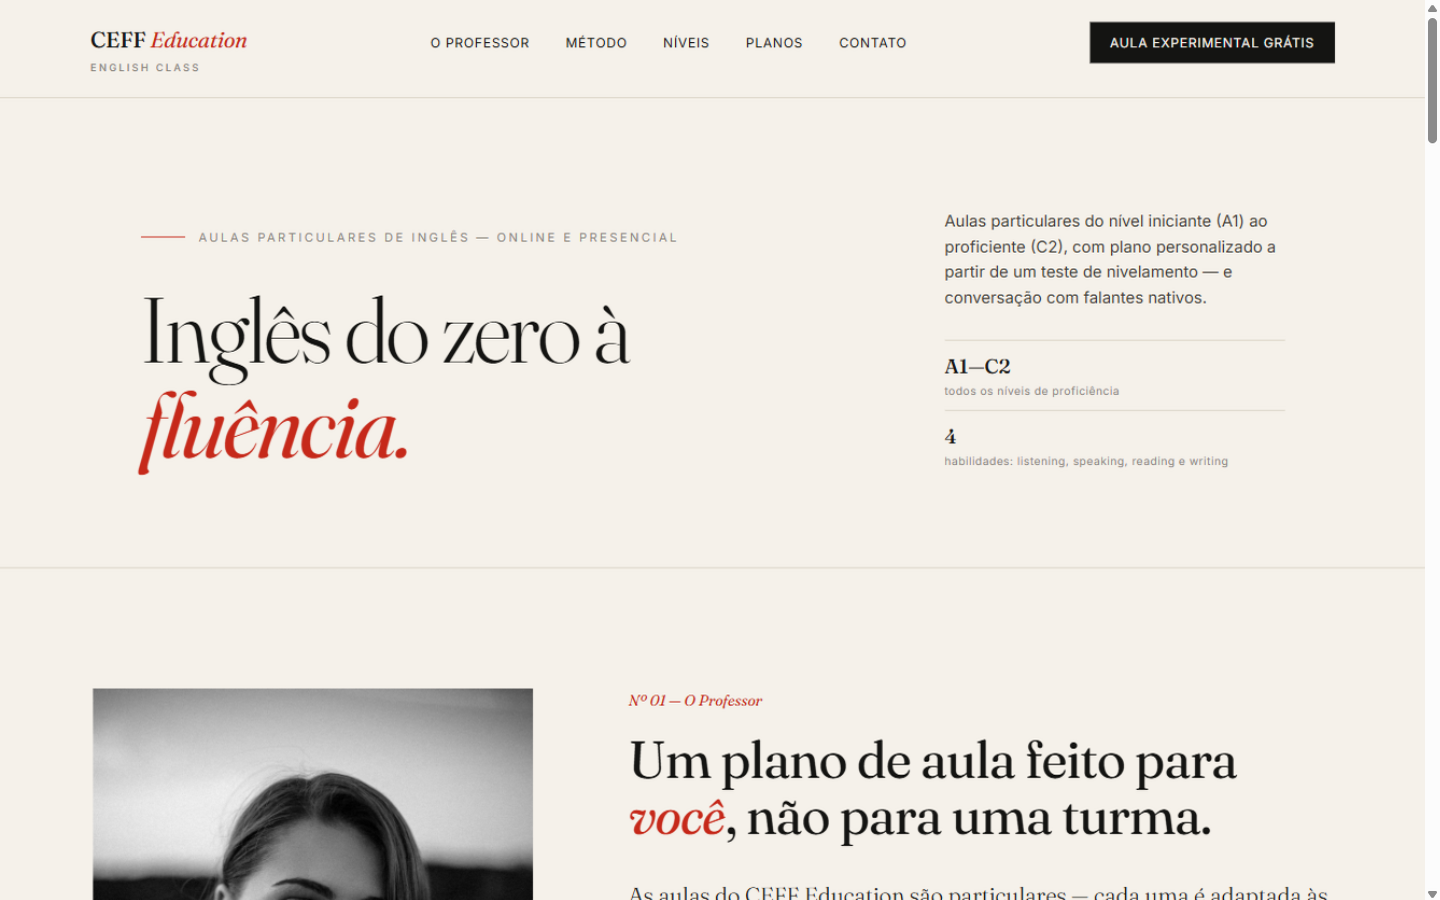
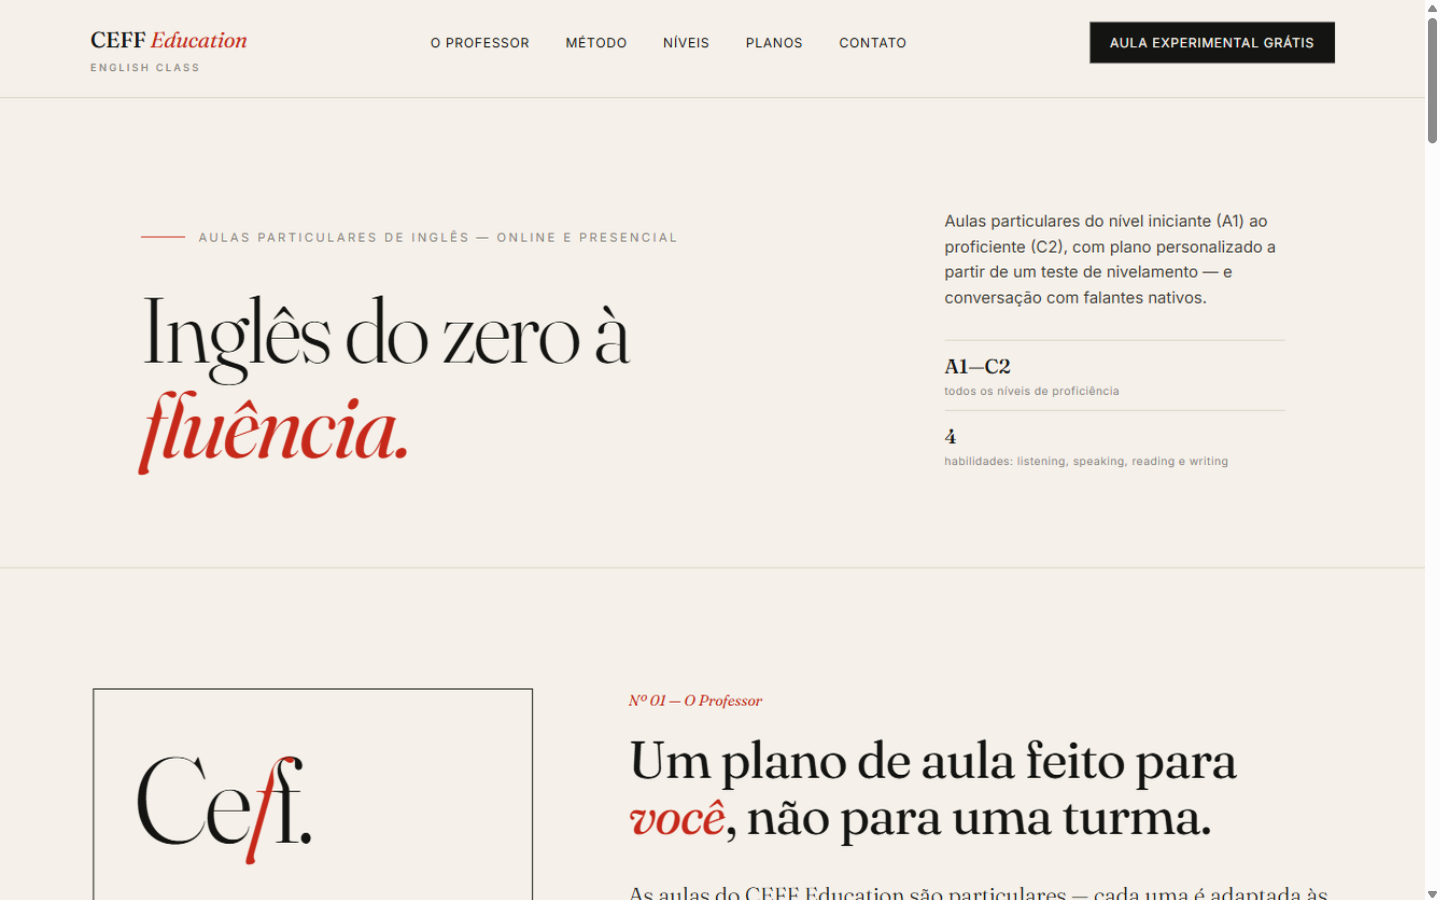
Remove all photos per teacher's request; typographic compositions instead
- concept-1: bordered serif monogram panel with method quote
- concept-2: bold A1->C2 outline block + cobalt statement panel
- concept-3: CEFR levels panel in hero
- update screenshots and README

Changed region(s): [[0.0625, 0.7467, 0.375, 1.0]]

diff --git a/concepts/concept-2-neo-brutalist.html b/concepts/concept-2-neo-brutalist.html
@@ -95,8 +95,15 @@
   }
   .hero-sub .arrow{font-family:'Archivo Black';font-size:26px;color:var(--cobalt);line-height:1;}
   .hero-side{display:flex;flex-direction:column;}
-  .hero-photo{flex:1;border-bottom:var(--border);position:relative;min-height:300px;}
-  .hero-photo img{width:100%;height:100%;object-fit:cover;display:block;filter:contrast(1.1) saturate(.85);}
+  .hero-photo{
+    flex:1;border-bottom:var(--border);position:relative;min-height:300px;
+    background:var(--butter);display:flex;align-items:center;justify-content:center;
+  }
+  .hero-photo .big{
+    font-family:'Archivo Black',sans-serif;font-size:110px;line-height:.92;text-transform:uppercase;
+    text-align:center;letter-spacing:-.02em;transform:rotate(-2deg);
+  }
+  .hero-photo .big .out{color:transparent;-webkit-text-stroke:3px var(--ink);display:block;}
   .hero-photo .tag{
     position:absolute;bottom:14px;left:14px;background:var(--paper);border:var(--border);
     font-family:'Space Mono',monospace;font-size:11px;font-weight:700;padding:5px 12px;
@@ -121,10 +128,18 @@
 
   /* ---------- teacher ---------- */
   .teacher{border-bottom:var(--border);display:grid;grid-template-columns:420px 1fr;}
-  .t-photo{border-right:var(--border);position:relative;}
-  .t-photo img{width:100%;height:100%;object-fit:cover;display:block;filter:grayscale(1) contrast(1.15);}
+  .t-photo{
+    border-right:var(--border);position:relative;
+    background:var(--cobalt);display:flex;align-items:center;justify-content:center;
+    padding:60px 40px;
+  }
+  .t-photo .big{
+    font-family:'Archivo Black',sans-serif;font-size:84px;line-height:.95;color:var(--paper);
+    text-transform:uppercase;text-align:center;letter-spacing:-.02em;
+  }
+  .t-photo .big span{color:var(--butter);}
   .t-photo::after{
-    content:"SOU O KADU →";position:absolute;top:20px;right:-3px;
+    content:"AULA PARTICULAR!";position:absolute;top:20px;right:-3px;
     background:var(--red);color:var(--paper);border:var(--border);
     font-family:'Space Mono',monospace;font-size:12px;font-weight:700;
     padding:6px 12px;transform:rotate(3deg);
@@ -280,8 +295,8 @@
     </div>
     <div class="hero-side">
       <div class="hero-photo">
-        <img src="https://images.unsplash.com/photo-1507003211169-0a1dd7228f2d?q=80&w=800&auto=format&fit=crop" alt="Professor Kadu">
-        <span class="tag">PROFESSOR KADU — CEFF EDUCATION</span>
+        <div class="big">A1<span class="out">→C2</span></div>
+        <span class="tag">CEFF EDUCATION — ENGLISH CLASS</span>
       </div>
       <div class="hero-stats">
         <div><b>6</b><span>Níveis (A1–C2)</span></div>
@@ -299,7 +314,7 @@
 
 <section class="teacher" id="professor">
   <div class="t-photo">
-    <img src="https://images.unsplash.com/photo-1507003211169-0a1dd7228f2d?q=80&w=700&auto=format&fit=crop" alt="Professor Kadu">
+    <div class="big">1 aluno.<br>1 <span>plano.</span></div>
   </div>
   <div class="t-copy">
     <span class="label">01 / O Professor</span>

diff --git a/concepts/concept-1-minimal-editorial.html b/concepts/concept-1-minimal-editorial.html
@@ -61,8 +61,18 @@
 
   /* ---------- teacher ---------- */
   .teacher{display:grid;grid-template-columns:440px 1fr;gap:96px;padding:120px 0;border-bottom:1px solid var(--rule);}
-  .portrait{position:relative;}
-  .portrait img{width:100%;display:block;filter:grayscale(100%) contrast(1.05);}
+  .portrait{
+    border:1px solid var(--ink);padding:56px 40px;position:relative;
+    display:flex;flex-direction:column;justify-content:space-between;min-height:520px;
+  }
+  .portrait .mono{
+    font-family:'Fraunces',serif;font-weight:300;font-size:120px;line-height:.9;letter-spacing:-.03em;
+  }
+  .portrait .mono em{font-style:italic;color:var(--red);}
+  .portrait .quote{
+    font-family:'Fraunces',serif;font-weight:300;font-size:24px;line-height:1.4;color:#3d3b35;
+    border-top:1px solid var(--rule);padding-top:24px;margin-top:40px;
+  }
   .caption{font-size:11px;letter-spacing:.14em;text-transform:uppercase;color:var(--grey);margin-top:12px;display:flex;justify-content:space-between;}
   .section-no{font-family:'Fraunces',serif;font-style:italic;font-size:15px;color:var(--red);margin-bottom:18px;display:block;}
   h2{font-family:'Fraunces',serif;font-weight:400;font-size:52px;line-height:1.08;letter-spacing:-.02em;margin-bottom:36px;}
@@ -171,8 +181,11 @@
 
 <section class="teacher wrap" id="professor">
   <div class="portrait">
-    <img src="https://images.unsplash.com/photo-1544005313-94ddf0286df2?q=80&w=900&auto=format&fit=crop" alt="Retrato do professor">
-    <div class="caption"><span>Professor Kadu</span><span>CEFF Education</span></div>
+    <div class="mono">Ce<em>f</em>f.</div>
+    <div>
+      <div class="quote">"Cada aula é adaptada às necessidades e aos interesses do aluno."</div>
+      <div class="caption"><span>CEFF Education</span><span>English Class</span></div>
+    </div>
   </div>
   <div class="teacher-copy">
     <span class="section-no">Nº 01 — O Professor</span>

diff --git a/concepts/concept-3-hybrid-editorial.html b/concepts/concept-3-hybrid-editorial.html
@@ -71,9 +71,21 @@
     border-left:2px solid var(--butter);padding-left:22px;
   }
   .hero-fig{position:relative;padding-bottom:0;}
-  .hero-fig img{
-    width:100%;display:block;filter:grayscale(1) contrast(1.08);
+  .hero-fig .lvl-panel{
     border:1px solid rgba(246,243,236,.25);
+    padding:36px 34px 28px;background:var(--green-deep);
+  }
+  .hero-fig .lvl-panel .lv{
+    display:flex;justify-content:space-between;align-items:baseline;
+    padding:13px 0;border-bottom:1px solid rgba(246,243,236,.15);
+  }
+  .hero-fig .lvl-panel .lv:last-child{border-bottom:none;}
+  .hero-fig .lvl-panel .lv b{
+    font-family:'Instrument Serif',serif;font-weight:400;font-size:34px;line-height:1;color:var(--paper);
+  }
+  .hero-fig .lvl-panel .lv:last-child b{color:var(--butter);font-style:italic;}
+  .hero-fig .lvl-panel .lv span{
+    font-size:10px;letter-spacing:.22em;text-transform:uppercase;color:var(--sage);
   }
   .hero-fig .plate{
     background:var(--butter);color:var(--ink);
@@ -249,7 +261,14 @@
     </div>
     <div class="hero-fig">
       <div class="num">01</div>
-      <img src="https://images.unsplash.com/photo-1573496359142-b8d87734a5a2?q=80&w=800&auto=format&fit=crop" alt="Professor Kadu">
+      <div class="lvl-panel">
+        <div class="lv"><b>A1</b><span>Iniciante</span></div>
+        <div class="lv"><b>A2</b><span>Básico</span></div>
+        <div class="lv"><b>B1</b><span>Intermediário</span></div>
+        <div class="lv"><b>B2</b><span>Interm. avançado</span></div>
+        <div class="lv"><b>C1</b><span>Avançado</span></div>
+        <div class="lv"><b>C2</b><span>Proficiente</span></div>
+      </div>
       <div class="plate">
         <b>A1—C2</b>
         <span>do iniciante ao proficiente</span>

diff --git a/README.md b/README.md
@@ -34,6 +34,7 @@ Todos os conceitos apresentam o mesmo conteúdo, extraído do PDF oficial de apr
 ### Princípios
 
 - **Zero dependências de build**: cada conceito é um único arquivo HTML autocontido (inline CSS). Não há bundler, framework, pré-processador nem `package.json`.
+- **Zero imagens**: por decisão do professor, o site não usa fotos (nem dele mesmo). Toda a expressão visual vem de tipografia, cor e composição — monograma serifado (Conceito 1), bloco tipográfico "A1→C2" com contorno (Conceito 2) e painel de níveis CEFR (Conceito 3) ocupam o espaço das antigas fotos.
 - **Tipografia via Google Fonts** com `font-display: swap` implícito e fallbacks de sistema (`serif`/`sans-serif`):
   - Conceito 1: `Fraunces` (serif variável, opsz 9–144) + `Inter`
   - Conceito 2: `Archivo Black` + `Archivo` + `Space Mono`
@@ -105,7 +106,7 @@ Decisões de design explícitas (aplicadas nos três conceitos):
 
 ## Como visualizar
 
-**Opção A — abrir direto** (requer internet para fontes e fotos):
+**Opção A — abrir direto** (requer internet apenas para as fontes do Google Fonts):
 
 Baixe/clonе o repositório e abra qualquer arquivo de `concepts/` com dois cliques no navegador.
 
@@ -124,7 +125,7 @@ python -m http.server 8080 --directory concepts
 - [x] Conceito 1 — Minimalista Editorial (desktop)
 - [x] Conceito 2 — Neo-brutalista (desktop)
 - [x] Conceito 3 — Editorial Híbrido (desktop, paleta validada: musgo + areia)
-- [ ] Substituição das fotos placeholder pelas fotos reais do professor
+- [x] Remoção de todas as fotos (decisão do professor) — composições tipográficas no lugar
 - [ ] Escolha do conceito vencedor pelo professor
 - [ ] Refinamento do vencedor: responsividade mobile, SEO básico, meta tags OG
 - [ ] Deploy (Netlify/Vercel/GitHub Pages) + domínio próprio
